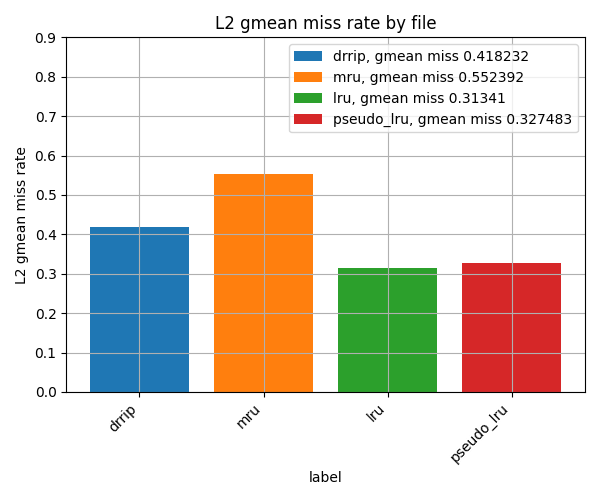
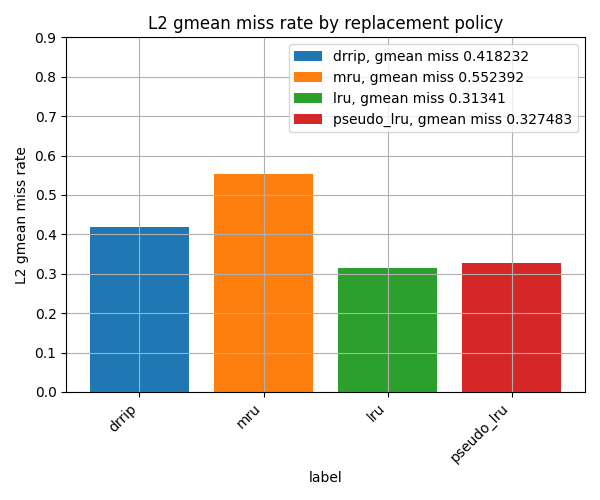
Add task1 and task2 reports

Changed region(s): [[0.24, 0.03, 0.84, 0.06]]

diff --git a/homework/replacement/comparison.py b/homework/replacement/comparison.py
@@ -26,7 +26,7 @@ def plot_charts(outdir, filenames, data, labels):
 
     ax.set_ylabel("L2 gmean miss rate")
     ax.set_xlabel("label")
-    ax.set_title("L2 gmean miss rate by file")
+    ax.set_title("L2 gmean miss rate by replacement policy")
     ax.legend()
     ax.grid(True)
     plt.yticks(np.arange(0,1,0.1))

diff --git a/homework/branch_comparison.md b/homework/branch_comparison.md
@@ -1,0 +1,38 @@
+# Task 1. Branch predictors comparison
+## Введение
+Целью данной задачи является реализация и сравнение производительности предсказателей ветвлений (branch predictors): бимодального (bimodal), марковского (Markov) и вероятностного марковского (probabilistic Markov). Сравнение проводилось на основе двух метрик: геометрического среднего IPC (Instructions Per Cycle) и MPKI (Misses Per Kilo Instructions) на выбранных тестовых трассах.
+
+Ожидаем, что markov будет работать хуже чем bimodal, поскольку markov использует обычные счетики, в отличие от счетчиков
+сатурации, используемых в bimodal. Обычные счеткики не имеют ограничения сверху, поэтому являются инерционными.
+Инерционность проявляется в том, что если счеткик равен N на переход в одну сторону, нужно будет 
+дожидаться N раз промахов, чтобы вероятность перехода в другую сторону стала 50%, и только затем возможно предсказания перехода в другю сторону.
+
+
+## Результаты
+Перейдем к полученным результатам.
+Рассмотрим график IPC, по оси x файл на котором производились замеры, по оси y -- IPC:
+
+![ipc](./images/ipc_predictors_plot.png)
+
+и график MPKI, по оси x также файл на котором производилосьь измерение, по оси y -- MPKI:
+
+![ipc](./images/mpki_predictors_plot.png)
+
+Геометрические средние значения IPC и MPKI для всех предсказателей приведены в таблице:
+
+|            | bimodal | markov | probabilistic markov |
+| ---------- | --------| ------ | -------------------- |
+| gmean IPC  | 0.922   | 0.899  | 0.849                |
+| gmean MPKI | 2.334   | 3.079  | 4.377                |
+
+## Анализ
+Как и ожидалось, markov имеет меньший IPC по сравнению с бимодальным бранч предиктором и больше misspredictions.
+Probabolistic markov имеет результат хуже, чем у markov.
+Объясниить это можно тем, что probabolistic markov добавляет вероятность перейти в противоположную сторону бранча путем введения распределения. Это помогает снизить инертность, но в тоже время ухудшает поведение в ситуации, где нужно было предсказать переход в одну сторону, а из-за вероятностного характера мы предсказываем переход в другую строну.
+
+## Выводы
+Бимодальный предсказатель превосходит марковский и вероятностный марковский по метрикам IPC и MPKI благодаря использованию счетчиков сатурации, которые быстрее адаптируются к изменениям в поведении ветвлений.
+
+Вероятностный марковский предсказатель, несмотря на попытку уменьшить инерционность, ухудшает производительность из-за случайных переходов, что делает его менее точным.
+
+Результаты подтверждают гипотезу о влиянии инерционности счетчиков на производительность предсказателей.

diff --git a/homework/replacement_comparison.md b/homework/replacement_comparison.md
@@ -1,0 +1,24 @@
+# Task 2. Replacement policies comparison
+## Введение
+Во второй задаче требовалось реализовать политику замещения Pseudo-LRU (PLRU) и одну дополнительную политику на выбор. Я выбрал MRU (Most Recently Used). Реализованные политики для кэша L2 были сравнены с LRU (Least Recently Used) и DRRIP по критерию miss rate, который рассчитывается как:
+
+$$miss~ rate = \frac{all~ misses}{all~ accesses}$$
+
+Для каждой политики и каждой трассы был вычислен miss rate, а затем среднее значение определено как геометрическое среднее (gmean). Результаты представлены на столбчатой диаграмме.
+
+## Результаты
+![ipc](./images/replacement_misses.png)
+
+## Анализ
+
+LRU демонстрирует наилучший результат с самым низким miss rate. Это ожидаемо, так как LRU точно отслеживает наименее используемые элементы, минимизируя промахи.
+
+PLRU показывает результат, близкий к LRU, но с чуть большим miss rate. Это объясняется тем, что PLRU лишь аппроксимирует LRU и в некоторых случаях удаляет не наименее используемый элемент, а близкий к нему по порядку заполнения. Однако PLRU проще в аппаратной реализации и хранит путь к удаляемой ноде, что может улучшать производительность в других аспектах.
+
+DRRIP оказался хуже PLRU, хотя ожидалось, что он покажет лучшие результаты. Вероятно, это связано с особенностями реализации DRRIP в симуляторе ChampSim, которые не полностью раскрывают его потенциал.
+
+MRU показал наихудший результат, что логично, так как удаление наиболее недавно использованного элемента противоречит типичным паттернам доступа к кэшу, где недавно использованные данные с большей вероятностью будут запрошены снова.
+
+## Вывод
+
+LRU остается наиболее эффективной политикой по критерию miss rate. PLRU является хорошей альтернативой с упрощенной реализацией. DRRIP требует дальнейшего анализа для выявления причин его низкой эффективности в данной реализации. MRU, как и ожидалось, не подходит для большинства сценариев из-за высокого miss rate.
